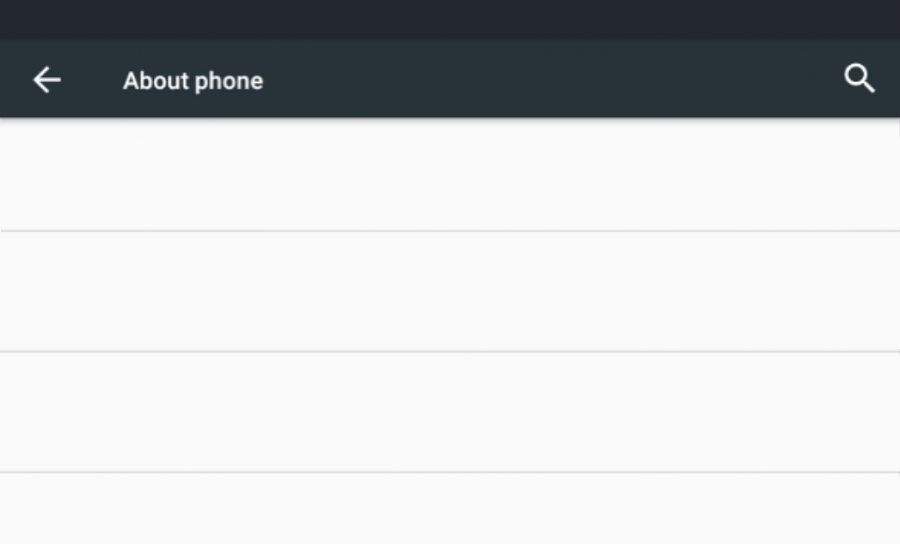
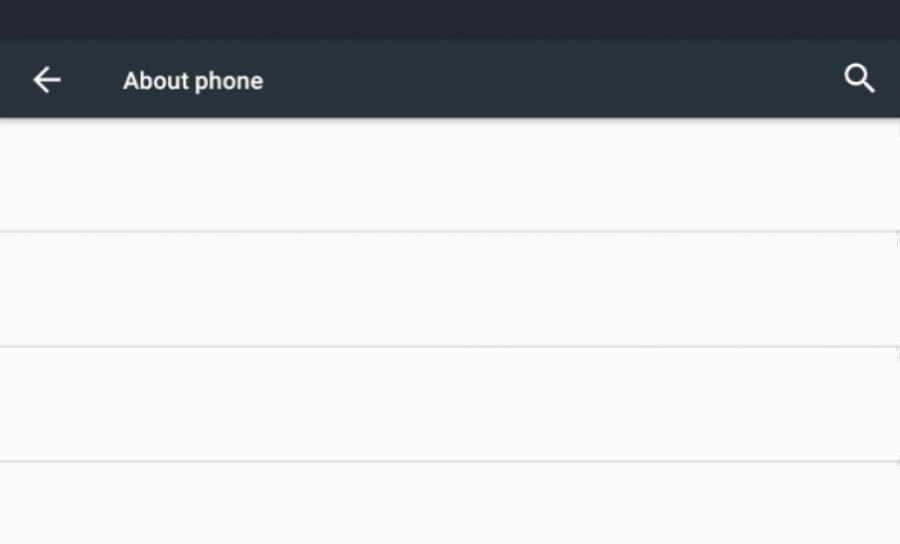
Fix up about menu alignment and returnToMenu2

Changed region(s): [[0.0, 0.8438, 1.0, 0.875], [0.0, 0.625, 1.0, 0.6562]]

diff --git a/src/settingsMenu.c b/src/settingsMenu.c
@@ -28,9 +28,9 @@ int aboutMenu()
 		if (cursor(0, 900, 117, 230))
 			vita2d_draw_texture(highlight, 0, 117);
 		else if (cursor(0, 900, 231, 343))
-			vita2d_draw_texture(highlight, 0, 231);
+			vita2d_draw_texture(highlight, 0, 232);
 		else if (cursor(0, 900, 344, 456))
-			vita2d_draw_texture(highlight, 0, 354);
+			vita2d_draw_texture(highlight, 0, 347);
 		
 		vita2d_pgf_draw_textf(Roboto, 30, 162, RGBA8(0, 0, 0, 255), 1.0f, "CyanogenVITA updates");
 		vita2d_pgf_draw_textf(Roboto, 30, 192, RGBA8(0, 0, 0, 255), 1.0f, "Click for, view or install available updates");
@@ -51,7 +51,7 @@ int aboutMenu()
 		
 		endDrawing();
 		
-		if (returnToMenu)
+		if (returnToMenu2)
 		{
 			vita2d_free_texture(aboutBg);
 			vita2d_free_texture(highlight);
@@ -95,7 +95,7 @@ int storageMenu()
 		
 		endDrawing();
 	
-		if (returnToMenu)
+		if (returnToMenu2)
 		{
 			vita2d_free_texture(storageBg);
 			settingsMenu();
@@ -174,7 +174,7 @@ int settingsMenu()
 		
 		endDrawing();
 		
-		if (returnToMenu)
+		if (returnToMenu2)
 		{
 			vita2d_free_texture(settingsBg);
 			vita2d_free_texture(hover);

diff --git a/src/homeMenu.h b/src/homeMenu.h
@@ -9,6 +9,7 @@
 
 #define cursor(x1, x2, y1, y2)  (cursorX  >= (x1) && cursorX  <= (x2) && cursorY >= (y1) && cursorY <= (y2))
 #define returnToMenu ((cursor(288, 384, 474, 544)) && (pad.buttons & SCE_CTRL_CROSS))
+#define returnToMenu2 ((cursor(900, 960, 322, 437)) && (pad.buttons & SCE_CTRL_CROSS))
 
 vita2d_texture 	*background, *cursor, *ic_allapps, *ic_allapps_pressed, *ic_launcher_browser, *ic_launcher_camera,
 				*ic_launcher_clock, *ic_launcher_filemanager, *ic_launcher_gallery, *ic_launcher_game, *ic_launcher_messenger, 

diff --git a/src/main.c b/src/main.c
@@ -48,7 +48,7 @@ int main(int argc, char *argv[])
 		vita2d_clear_screen();
 		vita2d_draw_texture(gekihen, 0, 0);
 		endDrawing();
-		sceKernelDelayThread(5 * 1000 * 1000);//delay 5 seconds
+		//sceKernelDelayThread(5 * 1000 * 1000);//delay 5 seconds
         home();
 	}
 	
